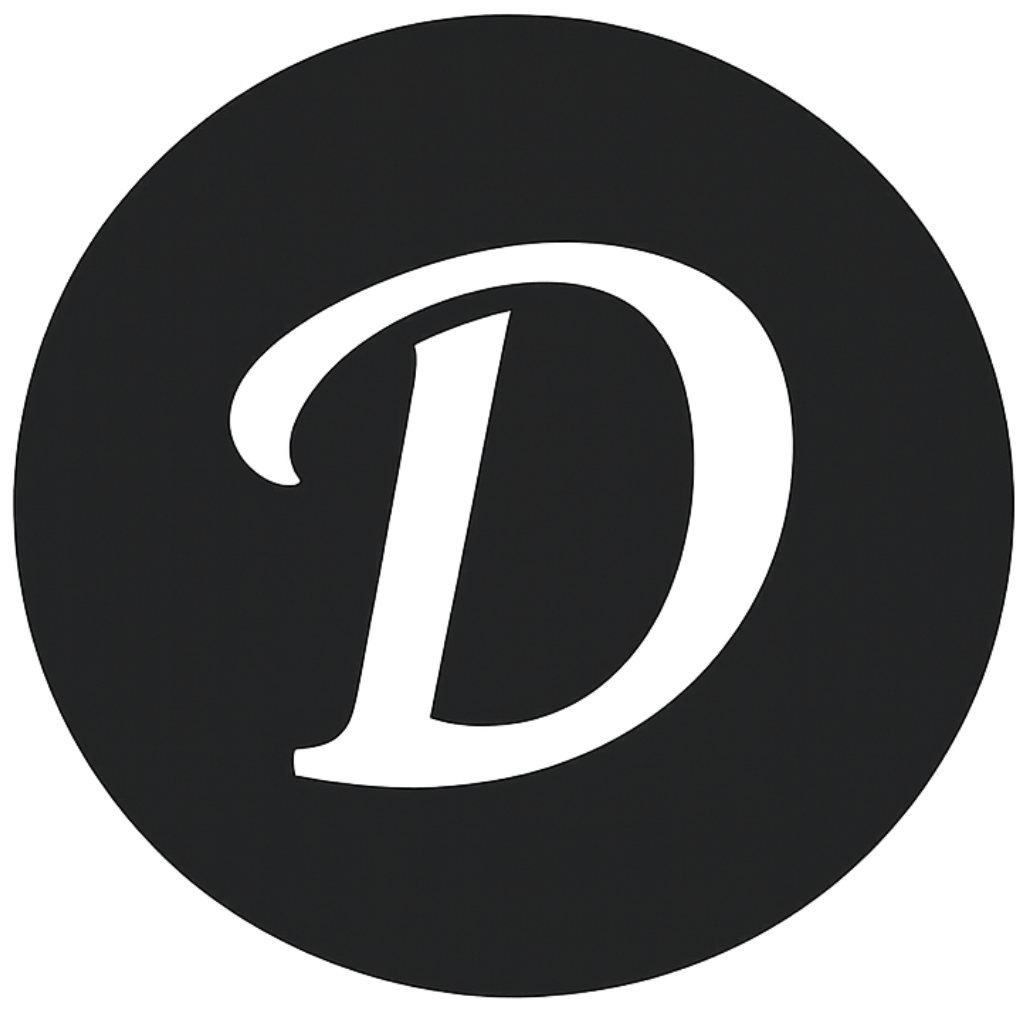
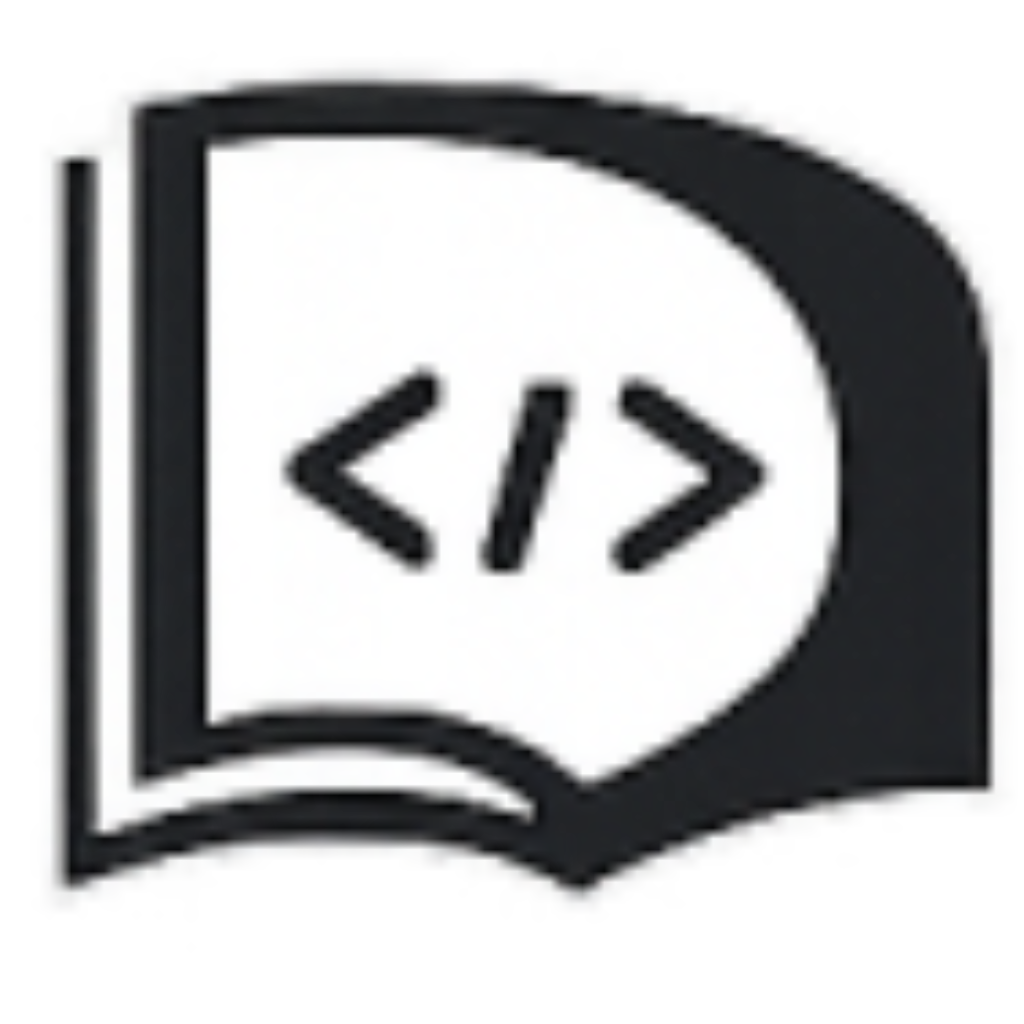
Еще обновленная структура

diff --git a/docs/guides/code-style.md b/docs/guides/code-style.md
@@ -1,0 +1,15 @@
+# Стандарты кода
+
+## Python (Бэкенд)
+- Используем `black` для форматирования.
+- Называем переменные и функции в `snake_case`.
+- Добавляем аннотации типов.
+
+## JavaScript/TypeScript (Веб)
+- Используем `eslint` и `prettier`.
+- Называем компоненты в `PascalCase`.
+- Ставим точку с запятой.
+
+## C# (Десктоп)
+- Следуем стандартным правилам .NET.
+- Называем интерфейсы с префикса `I`.

diff --git a/docs/README.md b/docs/README.md
@@ -1,0 +1,13 @@
+# Документация DevJournal
+
+Добро пожаловать в документацию проекта! Здесь собраны все материалы для разработчиков, тестировщиков и будущих контрибьюторов.
+
+## 📚 Разделы
+- **[API](#api/)** — Взаимодействие с бэкендом.
+- **[Архитектура](#architecture/)** — Как устроен проект.
+- **[Руководства](#guides/)** — Инструкции для работы.
+
+## 🚀 Быстрый старт
+1. Прочитай [руководство по настройке](guides/setup-guide.md).
+2. Ознакомься с [Git-воркфлоу](guides/git-workflow.md).
+3. Начни кодить!

diff --git a/docs/guides/setup-guide.md b/docs/guides/setup-guide.md
@@ -1,0 +1,10 @@
+# Настройка окружения
+
+1. **Установите Git** (если ещё не стоит).
+2. **Клонируйте репозиторий:** `git clone https://github.com/MagentaFNS/DevJournal.git`
+3. **Настройте бэкенд:**
+   - Перейдите в папку `backend`.
+   - Создайте виртуальное окружение: `python -m venv venv`.
+   - Активируйте его и установите зависимости: `pip install -r requirements.txt`.
+4. **Установите базу данных** (PostgreSQL) или используйте SQLite для тестов.
+5. **Создайте файл `.env`** с переменными окружения (см. `.env.example`).

diff --git a/docs/guides/git-workflow.md b/docs/guides/git-workflow.md
@@ -1,0 +1,6 @@
+# Git-воркфлоу
+
+1. **Основная ветка:** `main` — всегда стабильная версия.
+2. **Ветки для фичей:** Создаём от `main` с именем `feature/название-фичи`.
+3. **Коммиты:** Пишем на русском, кратко и понятно. Например: "Добавил форму для создания отчёта".
+4. **Pull Request:** Перед слиянием в `main` создаём PR, чтобы кто-то проверил код.